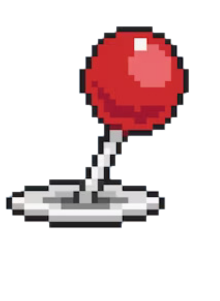
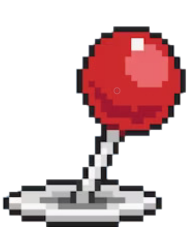
småfix

diff --git a/script.js b/script.js
@@ -22,6 +22,11 @@ function joystickChange() {
 function joystickBend() {
     const imageElement = document.getElementById('joystickImage')
     const origionalSrc = imageElement.src;
+    
+/*     if (joystickTimeout) {
+        clearTimeout(joystickTimeout);
+    } */
+
     imageElement.src = '/images/joystick-2.png'
     setTimeout(() => {
         imageElement.src = origionalSrc;

diff --git a/index.html b/index.html
@@ -99,7 +99,6 @@
             <img id="joystickImage" src="/images/joystick-1.png" alt="">
             <button onclick="joystickChange(); joystickBend()" class="joy-btn"></button>
             <p style="font-size: x-large; color: white; position: absolute;" id="displayValue">0</p>
-
             <div class="joystick-shadow-1"></div>
         </div>
     </div>

diff --git a/styles.css b/styles.css
@@ -141,10 +141,6 @@ footer{
   z-index: 20;
 }
 
-#joystickImage {
-  bottom: 290px;
-}
-
 .joystick-shadow-1 {
     position: absolute;
     width: 100%;
